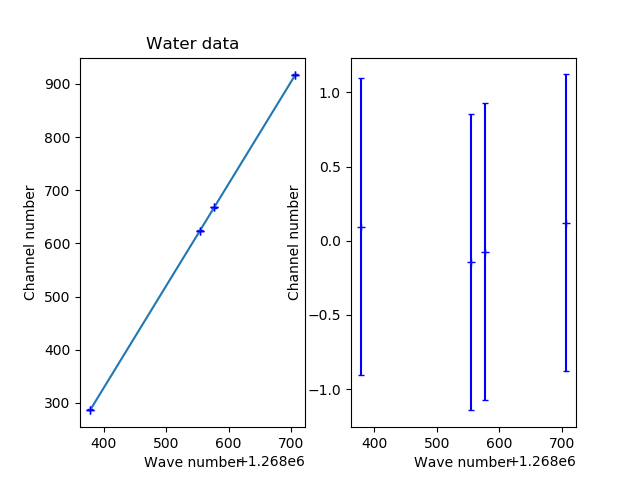
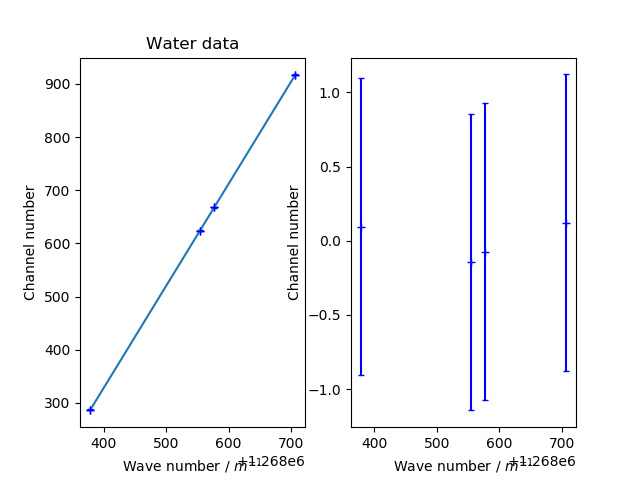
final commit

Changed region(s): [[0.1875, 0.9375, 0.4062, 1.0], [0.625, 0.9375, 0.8125, 1.0]]

diff --git a/Final submission/main.py b/Final submission/main.py
@@ -154,7 +154,6 @@ def linearFit(x, y, ey):
 def quadraticFit(x, y, ey):
     # Perform a quadratic fit and get the errors
 
-
     fit_parameters, fit_errors = np.polyfit(x, y, 2, cov=True, w=ey)
     fit_a = fit_parameters[0]  # quadratic term
     fit_b = fit_parameters[1]  # linear term
@@ -221,17 +220,17 @@ def main():
     h2o_data = getData(water_file)
     channel_number = np.arange(1, len(h2o_data) + 1)  # get the x-coordinates
 
-    wave_number_water = [12683.782, 12685.540, 12685.769, 12687.066]
+    wave_number_water = [12683.782, 12685.540, 12685.769, 12687.066]  # y-coordinate for calibration
     wave_number_water = np.array(wave_number_water)
-    wave_number_water = wave_number_water * 100  # unit conversion
+    wave_number_water = wave_number_water * 100  # unit conversion to SI
 
     water_zeroes, water_zeroes_sigma = getZeroes(channel_number, h2o_data, True)
 
     print("calibration fitting for the wave number against channel number plot")
     fit_param_cal = linearFit(wave_number_water, water_zeroes, np.ones(np.size(water_zeroes)))
-    chi_sqrt = getChiSqrt(fit_param_cal[0][0] * water_zeroes + fit_param_cal[1][0], wave_number_water,
+    chi_sqrt = getChiSqrt(fit_param_cal[0][0] * wave_number_water + fit_param_cal[1][0], water_zeroes,
                           np.ones(np.size(water_zeroes)))
-    print("The value of chi squared is: {:0.16}".format(chi_sqrt))
+    print("The value of chi squared is: {:0.9}".format(chi_sqrt))
     print(" ")
     '''
     enter the channel number and get the wave number
@@ -250,7 +249,7 @@ def main():
     print("The value of chi squared is: {:0.16}".format(chi_sqrt))
     print(" ")
 
-    print("Quadratic fitting for the c2h2 zeroes data against quatum number")
+    print("Quadratic fitting for the c2h2 zeroes data against quantum number")
     error_arr = np.ones(np.size(c2h2_zeroes))  # re declare remove later
     results_2 = quadraticFit(m, c2h2_zeroes, error_arr)
     chi_sqrt = getChiSqrt(results_2[0][0] * m ** 2 + results_2[1][0] * m + results_2[2][0], c2h2_zeroes, error_arr)
@@ -264,7 +263,7 @@ def main():
     C = results_2[0][0]
     C_sigma = results_2[0][1]
     F_sigma = fit_param_cal[0][1]
-    F = 1 / fit_param_cal[0][0]  # edit
+    F = 1 / fit_param_cal[0][0]
 
     I0 = (h_bar) ** 2 / ((F * h * c) * (B - C))
     I1 = (h_bar) ** 2 / ((F * h * c) * (B + C))
@@ -287,15 +286,14 @@ def main():
     # c2h2_zeroes, c2h2_zeroes_sigma
     temp = np.sqrt(m_e * c ** 2 / k) * (water_zeroes_sigma / water_zeroes)
     temperature_error = np.abs(np.std(temp))
-    print(temperature_error)
     temp = np.mean(temp)
-    print("The temperature of water is: {0:.09} +/- ".format(temp) + str(temperature_error))
+    print("The temperature of water is: {0:.09} +/-  K".format(temp) + str(temperature_error))
 
     # c2h2 temperature
     temp = np.sqrt(m_e * c ** 2 / k) * (c2h2_zeroes_sigma / c2h2_zeroes)
     temperature_error = np.abs(np.std(temp))
     temp = np.mean(temp)
-    print("The temperature of c2h2 is: {0:0.09} +/- ".format(temp) + str(temperature_error))
+    print("The temperature of c2h2 is: {0:0.09} +/-  K".format(temp) + str(temperature_error))
 
     # plots
     plotData("C2H2 data linear fit", "Quantum number m", "Channel number", m, c2h2_zeroes, error_arr, "C2H2")
@@ -303,7 +301,7 @@ def main():
                          "C2H2")
 
     error_arr = np.delete(error_arr, 0)
-    plotData("Water data", "Wave number", "Channel number", wave_number_water, water_zeroes, error_arr, "H2O")
+    plotData("Water data", "Wave number / $m^{-1}$", "Channel number", wave_number_water, water_zeroes, error_arr, "H2O")
 
     # finish the lines by adding or removing different stuff
     # make sure the graphs are consistent
